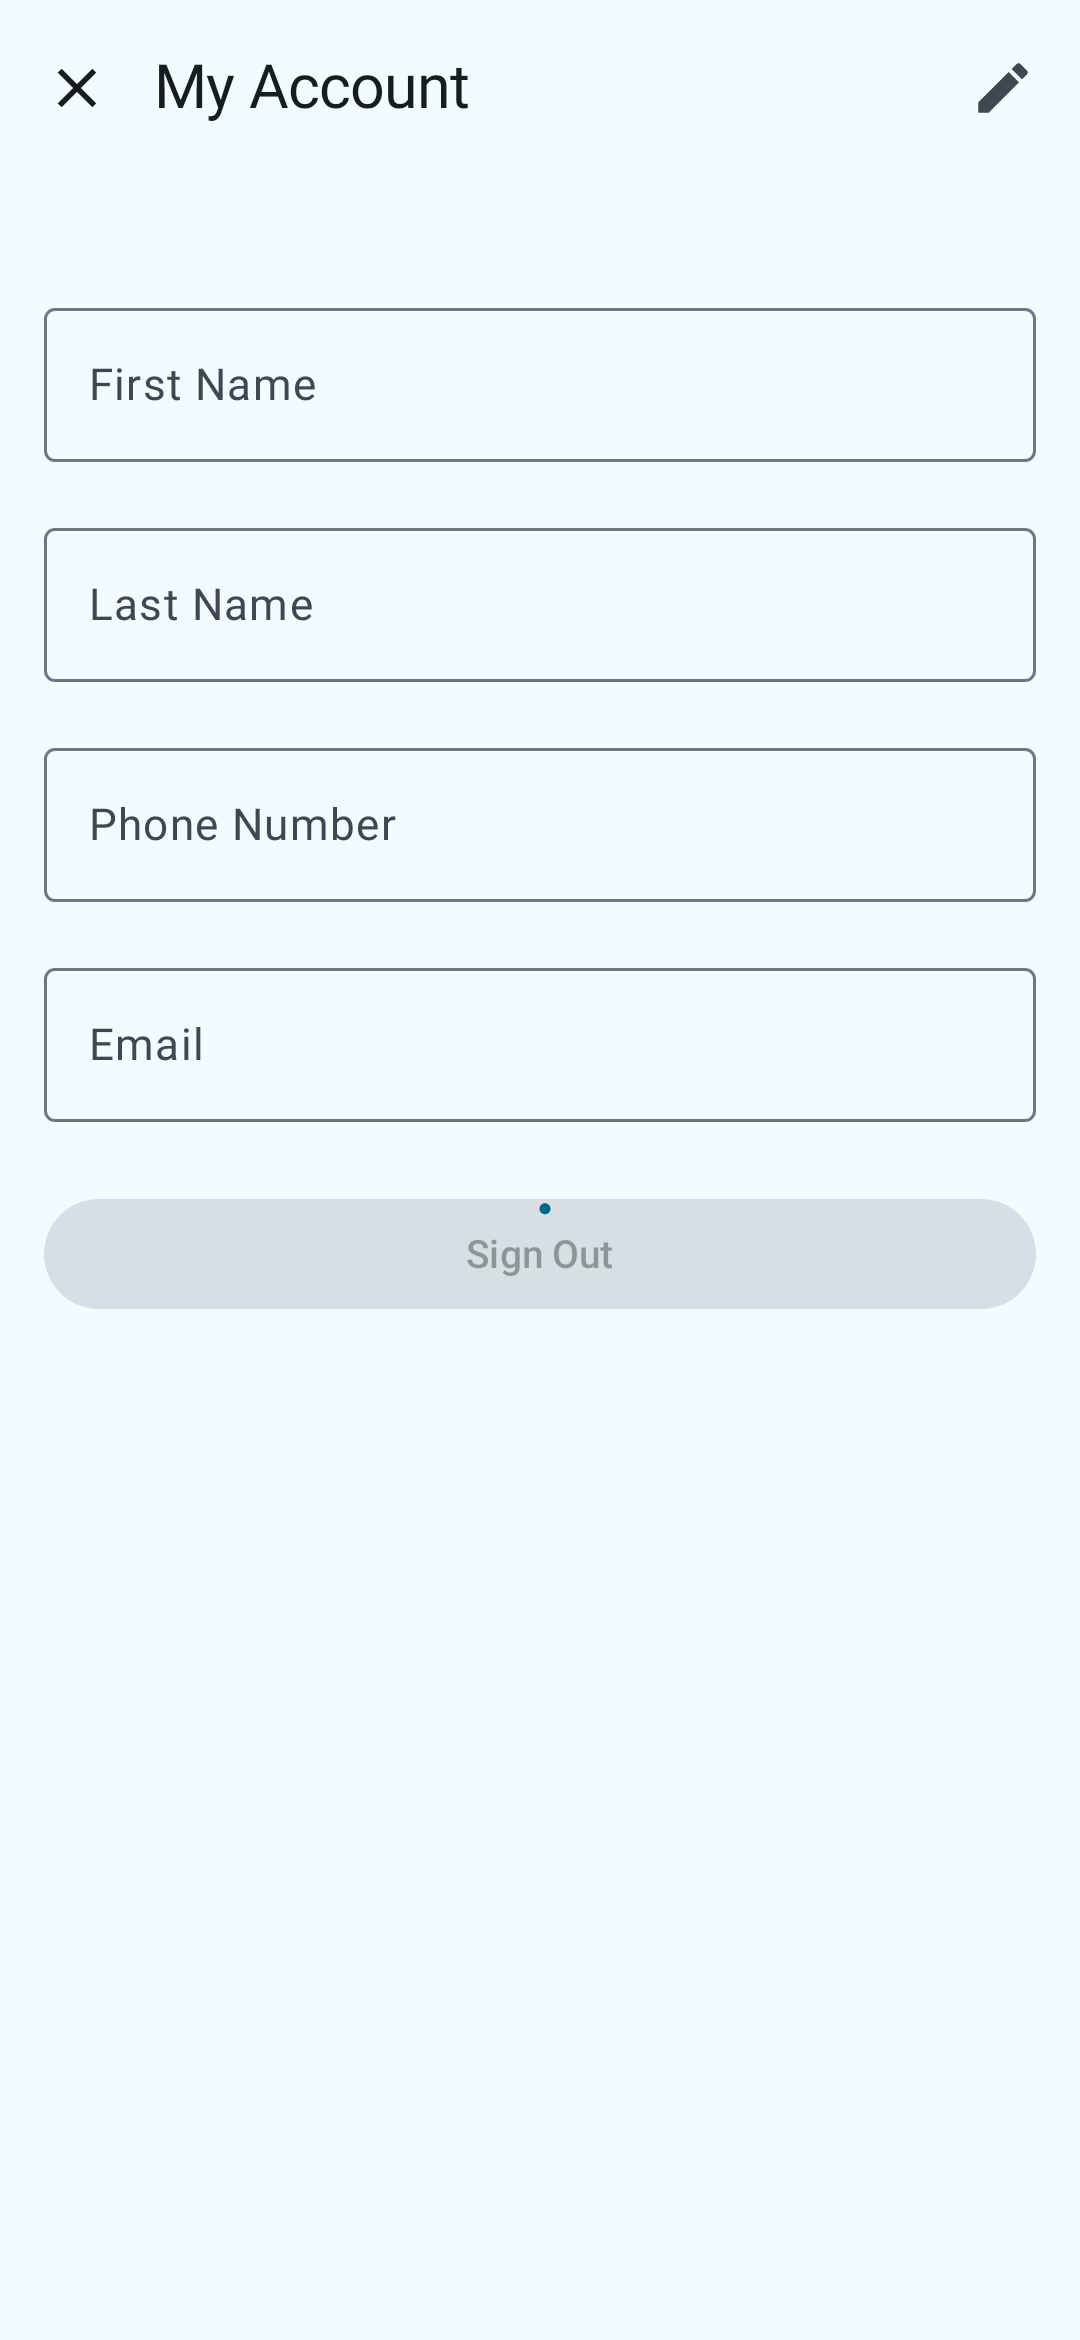
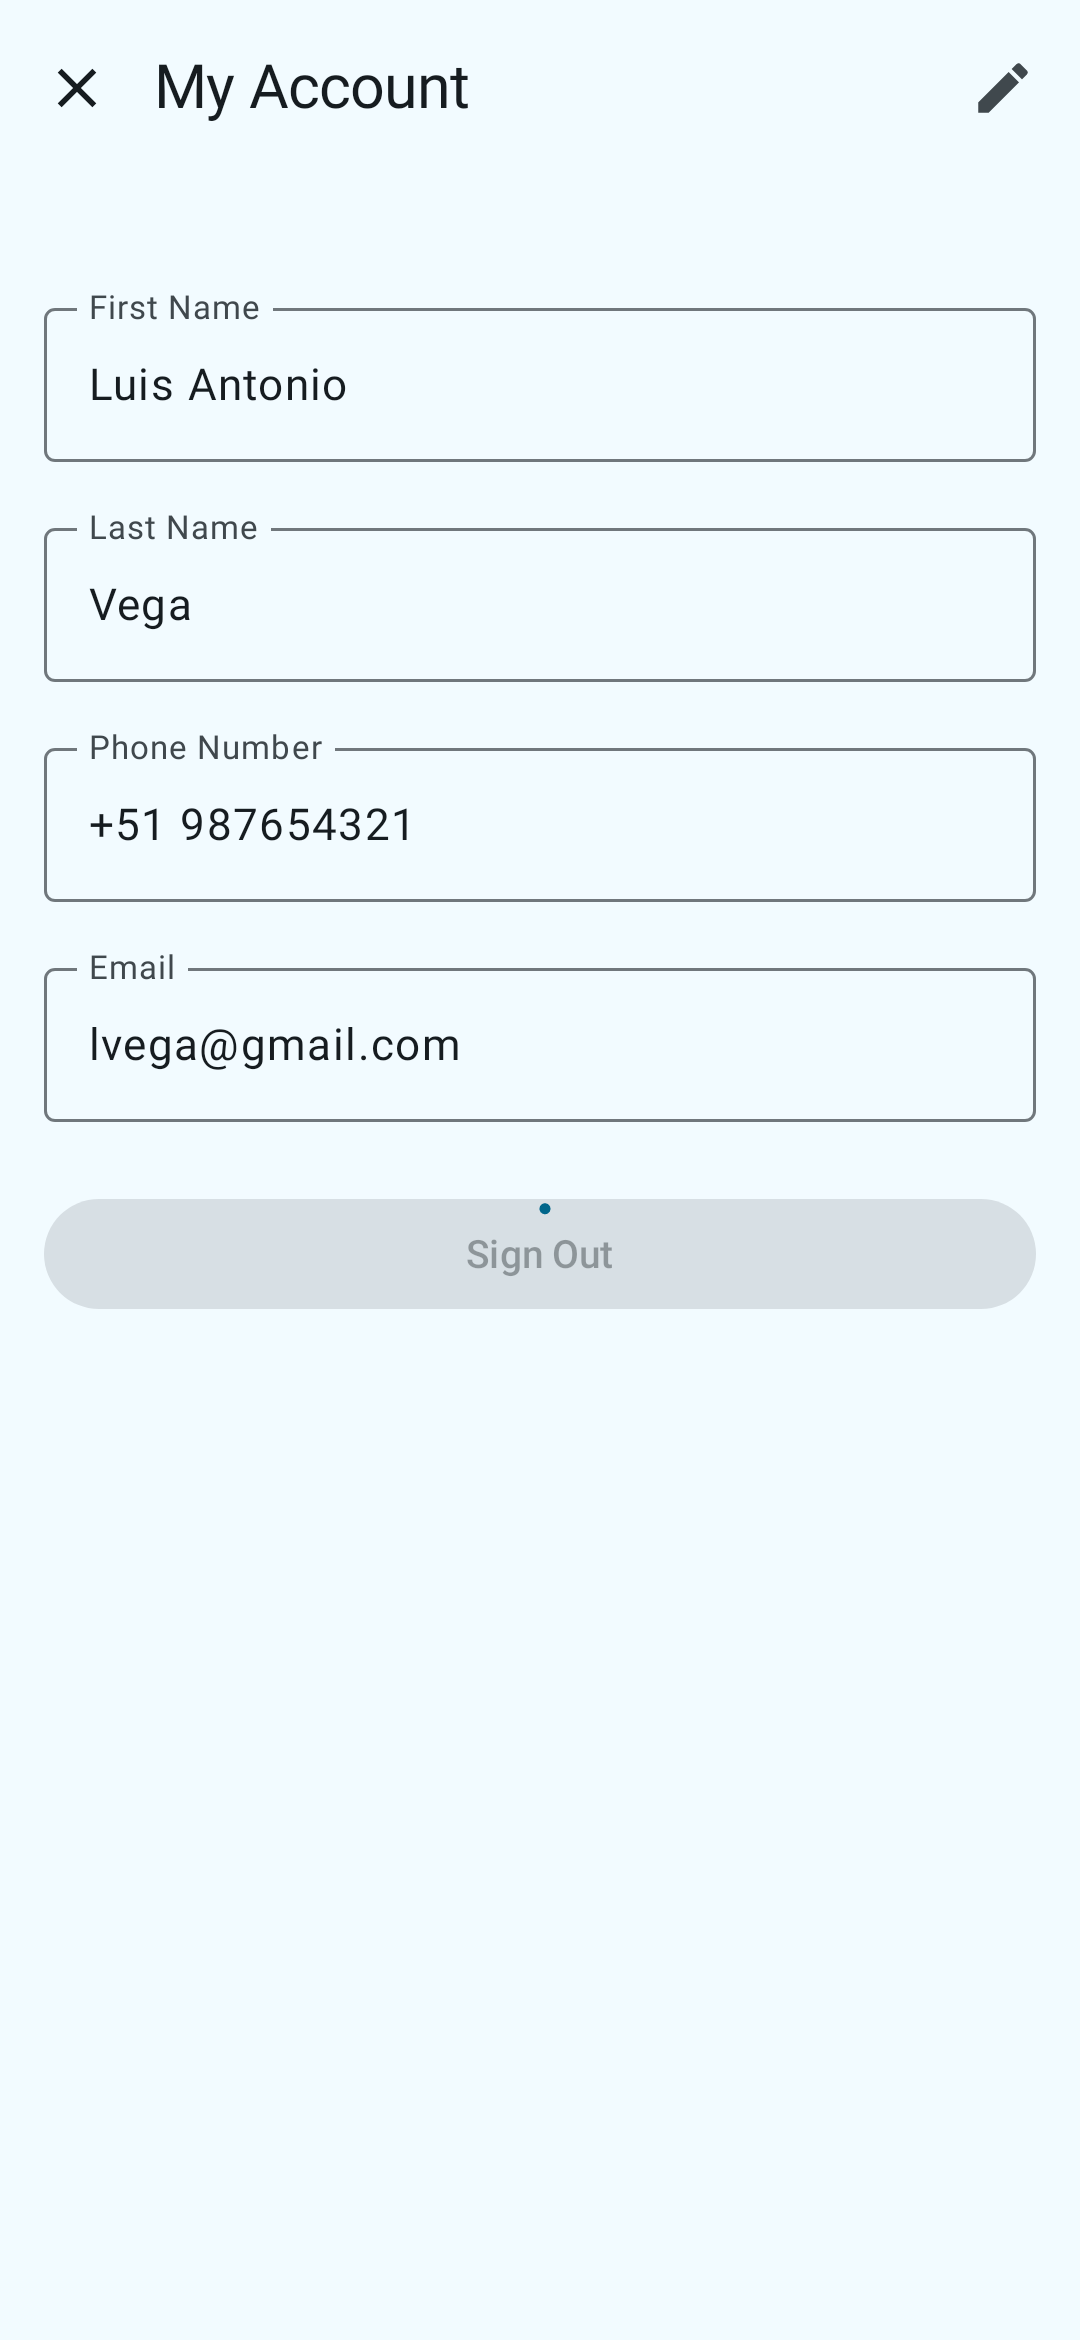
[EDIFIKANA] Fixing previews

diff --git a/edifikana/front-end/shared-app/src/commonMain/kotlin/com/cramsan/edifikana/client/lib/features/account/account/AccountScreenPreview.kt b/edifikana/front-end/shared-app/src/commonMain/kotlin/com/cramsan/edifikana/client/lib/features/account/account/AccountScreenPreview.kt
@@ -14,6 +14,28 @@ private fun AccountScreenPreview() = AppTheme {
             email = "lvega@gmail.com",
             phoneNumber = "+51 987654321",
             isLoading = false,
+            isEditable = false,
+        ),
+        onBackNavigation = {},
+        onSignOutClicked = {},
+        onEditClicked = {},
+        onFirstNameChange = {},
+        onLastNameChange = {},
+        onEmailChange = {},
+        onPhoneNumberChange = {},
+    )
+}
+
+@Preview
+@Composable
+private fun AccountScreenPreview_Editable() = AppTheme {
+    AccountContent(
+        content = AccountUIState(
+            firstName = "Luis Antonio",
+            lastName = "Vega",
+            email = "lvega@gmail.com",
+            phoneNumber = "+51 987654321",
+            isLoading = false,
             isEditable = true,
         ),
         onBackNavigation = {},
@@ -31,10 +53,10 @@ private fun AccountScreenPreview() = AppTheme {
 private fun AccountScreenPreview_Loading() = AppTheme {
     AccountContent(
         content = AccountUIState(
-            firstName = null,
-            lastName = null,
-            email = null,
-            phoneNumber = null,
+            firstName = "Luis Antonio",
+            lastName = "Vega",
+            email = "lvega@gmail.com",
+            phoneNumber = "+51 987654321",
             isLoading = true,
             isEditable = false,
         ),
